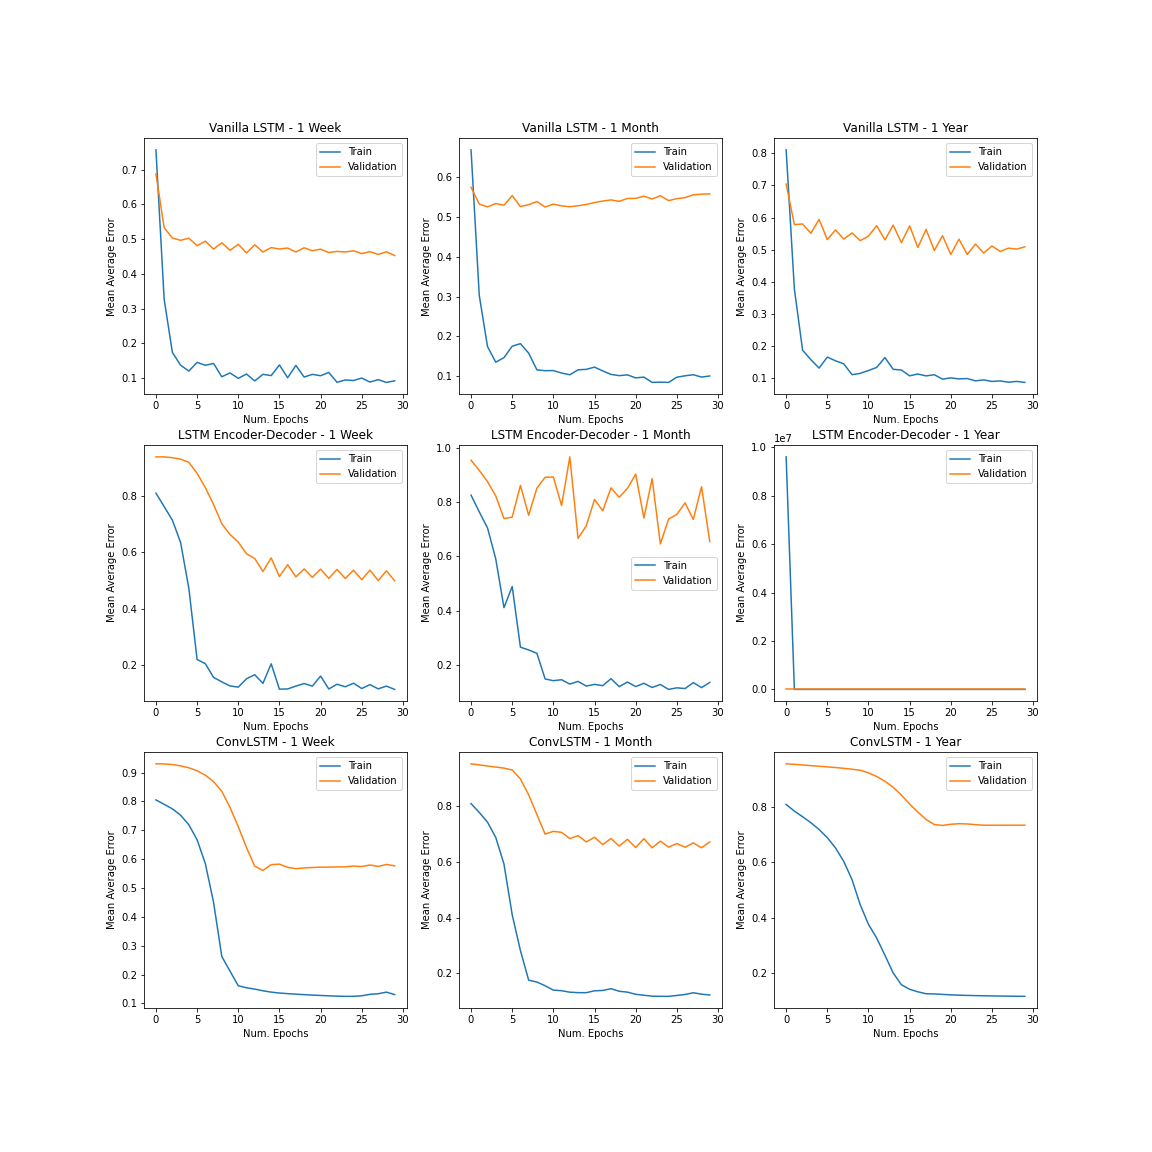
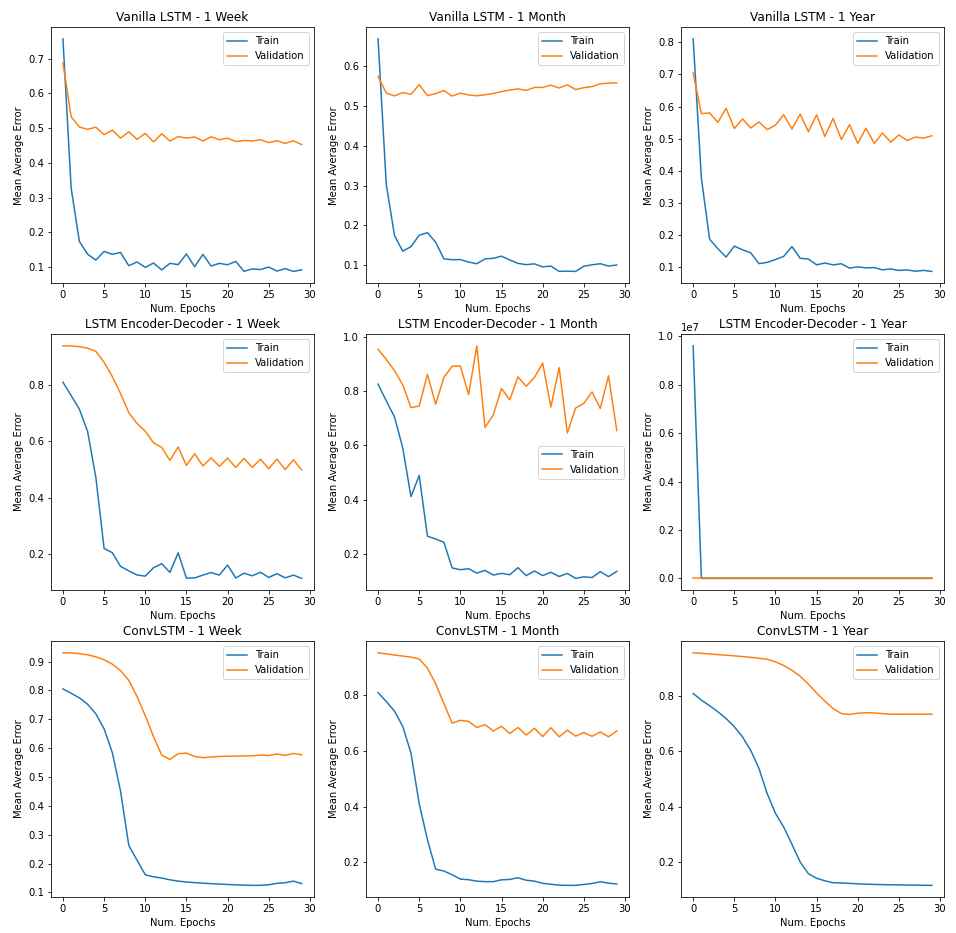
Resized some images

diff --git a/css/style.css b/css/style.css
@@ -114,7 +114,11 @@
 }
 
 #models_pairplot {
-    margin: -150px -200px -200px -200px;
+	
+    height: auto; 
+    width: auto; 
+    max-width: 115%; 
+    max-height: auto;
 }
 
 .models {
